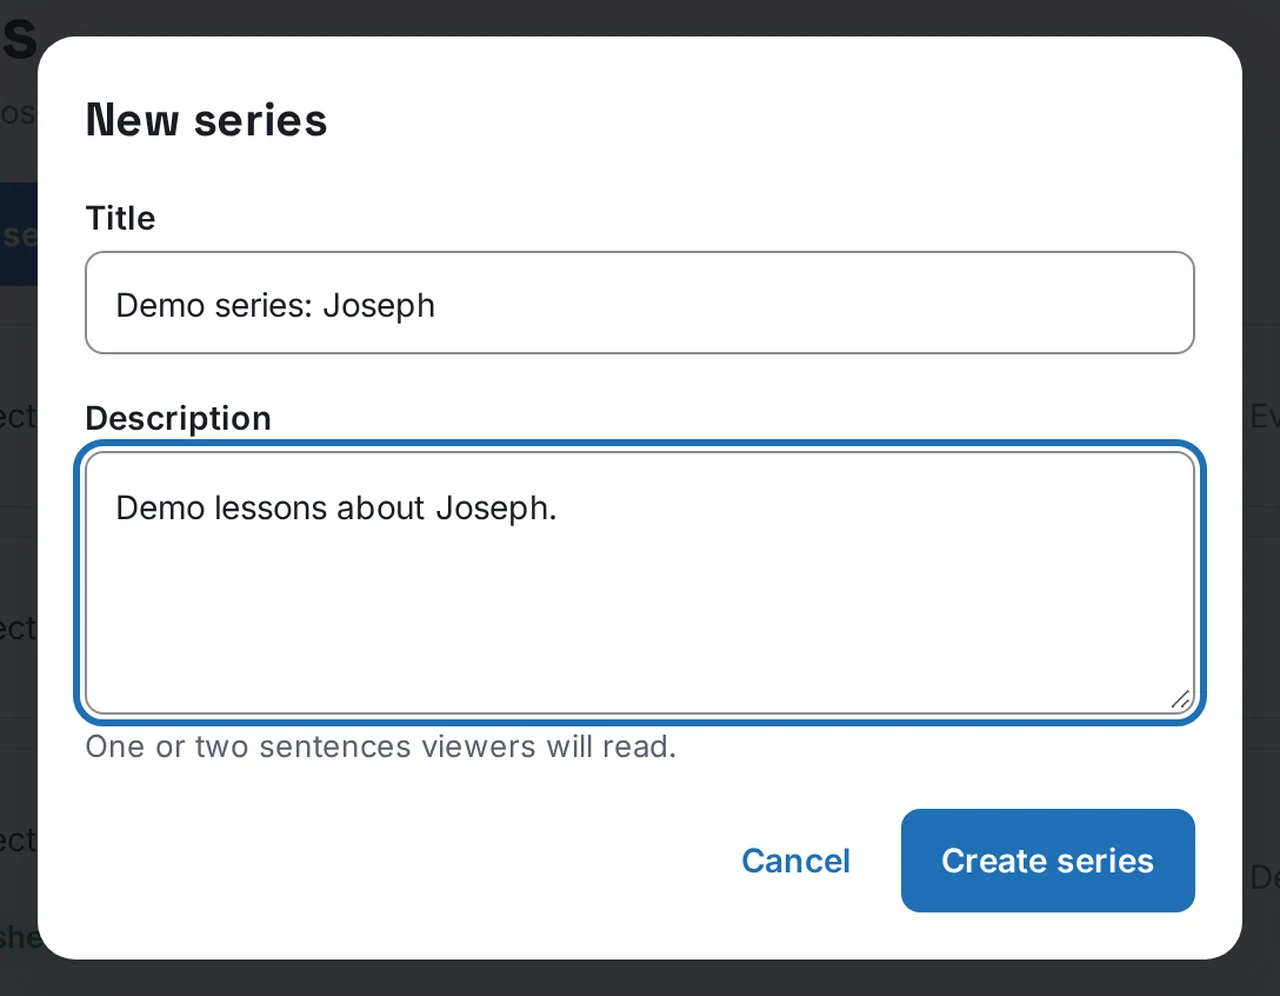
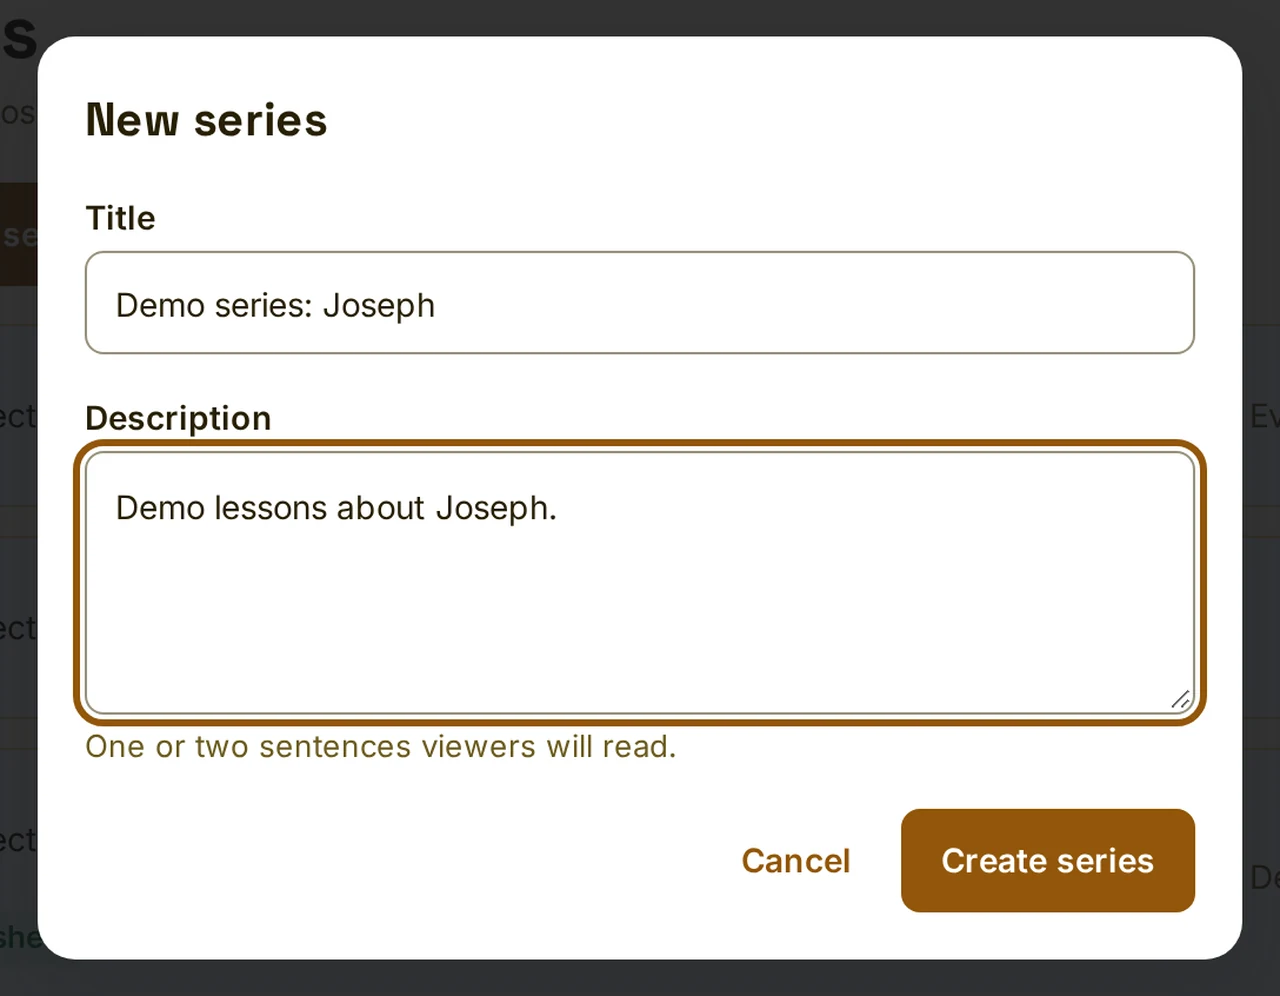
wip

diff --git a/content/help/en/weekly/W27-see-how-a-series-looks-to-viewers.md b/content/help/en/weekly/W27-see-how-a-series-looks-to-viewers.md
@@ -1,0 +1,49 @@
+---
+id: W27
+title: See how a series looks to viewers
+path: weekly
+summary: Open the viewer side of a series and check the page, the Play button and the group list.
+role: editor
+needs: [W01]
+related: [W28]
+readMinutes: 4
+watchSeconds: 120
+video:
+  id: VW27
+  phone: true
+screens: ["/admin/series/[id]"]
+aliases: [viewer page, resume, next episode, preview series]
+flow: W27
+dependsOn: ["apps/web/src/app/(viewer)/series", apps/web/src/components/title]
+updated: 2026-11-25
+locale: en
+status: draft
+---
+## What you will do
+Look at a series the way a viewer sees it. You end knowing the Play button, the group list and where the series appears.
+
+## Before you start
+You need the Editor role or above. The series must be published to show on the site. Draft series are visible to staff only.
+
+Viewers see a series page with a group list in your own words, such as Part, and the lessons below. The main button says **Play** the first time and **Resume** when a viewer has started. A small card on Home says what comes next, for example Next: Lesson 4. A series also appears in Home rows and in search results. On a phone the group list becomes a menu above the lessons.
+
+## Steps
+<!-- kb:steps W27 -->
+1. Choose **Series** in the side menu.
+2. Click **Maths Made Simple** in the list.
+3. Click **Preview site** in the top bar.
+   ![The viewer series page with its group list and lessons, marked 1](../../media/W27/W27-03-series-page-desktop.webp)
+4. Check that **Play** starts the first lesson.
+<!-- /kb:steps -->
+
+## What you should see
+The series page shows its title, the Play button and the lessons in order.
+
+The recording shows the site's sample series, because the demo series are not on the viewer demo site.
+
+> [!NOTE]
+> **Preview site** in the top bar opens the site in a new tab. The recording stays in one tab.
+
+## If something goes wrong
+- **The series is not on the site.** It is probably a draft. Use the **Published** switch on the series page.
+- **The words are Season and Episode.** The site words are not set. [Choose the series names for your whole site](help:W21)

diff --git a/content/help/en/weekly/W23-add-many-videos-to-a-series.md b/content/help/en/weekly/W23-add-many-videos-to-a-series.md
@@ -1,0 +1,45 @@
+---
+id: W23
+title: Add many videos to a series
+path: weekly
+summary: Bundle several videos into a series from the Videos list, check the numbers, and undo if needed.
+role: editor
+needs: [W20]
+related: [W02, W25, W01]
+readMinutes: 4
+watchSeconds: 90
+video:
+  id: VW23
+screens: ["/admin/videos"]
+actions: [series.manage]
+aliases: [bundle, put in a series, bulk add, add to series]
+flow: W23
+dependsOn: [apps/web/src/components/admin/AddToSeriesDialog.tsx, apps/web/src/lib/series-bundle.ts]
+updated: 2026-11-25
+locale: en
+status: draft
+---
+## What you will do
+Put several videos into a series in one go. You end with each video numbered, for example Part 3, Lessons 1 to 3 of a Genesis series.
+
+## Before you start
+You need the Editor role or above. The videos must already be uploaded. You can add videos from the current page of the list only.
+
+You can order the new numbers three ways: the order you picked, by title, or by upload date with the oldest first.
+
+## Steps
+<!-- kb:steps W23 -->
+<!-- /kb:steps -->
+
+## What you should see
+The preview table lists every video with its place, for example Part 3, Lesson 1. After you add them, a message offers **Undo** for a few seconds.
+
+> [!TIP]
+> Read the preview before you click **Add 3 videos**. A red message above it says what to fix, such as a number already taken.
+
+> [!NOTE]
+> The demo recording clicks **Undo** at the end so the demo stays the same. Do the same only if the numbers look wrong.
+
+## If something goes wrong
+- **Add to series is grey.** Select rows on this page first. It cannot work on every match of a search. Find videos and change many at once
+- **A red message says a number is taken.** Choose another **Part** or start at a later lesson. [Fix gaps and duplicate numbers](help:W25)

diff --git a/content/help/en/weekly/W30-change-many-videos-at-once.md b/content/help/en/weekly/W30-change-many-videos-at-once.md
@@ -1,0 +1,42 @@
+---
+id: W30
+title: Change many videos at once
+path: weekly
+summary: Select videos and publish, rate or add them to a category in one go.
+role: editor
+needs: [S04]
+related: [W23, W33]
+readMinutes: 4
+watchSeconds: 120
+video:
+  id: VW30
+screens: ["/admin/videos"]
+actions: [video.edit]
+aliases: [bulk, many, select all, bulk publish, suitability, bulk category]
+flow: W30
+dependsOn: [apps/web/src/components/admin/VideosList.tsx, apps/web/src/components/admin/bulk]
+updated: 2026-11-25
+locale: en
+status: draft
+---
+## What you will do
+Change several videos together with the bulk bar. You end with the chosen videos in a new category, the same way you can publish them or set their maturity rating.
+
+## Before you start
+You need the Editor role or above. The bar works on the rows ticked on the current page. Publish and Move to Trash need the matching role.
+
+The bar offers **Publish**, **Unpublish**, **Add to category**, **Remove from category**, **Add to series**, **Set maturity rating** and **Move to Trash**. Publish asks you to confirm first. The others open a small box with a list and an **Apply** button.
+
+## Steps
+<!-- kb:steps W30 -->
+<!-- /kb:steps -->
+
+## What you should see
+A message says how many videos changed, with **Undo** for a few seconds. The list shows the new category.
+
+> [!TIP]
+> Use **Set maturity rating** to set the suitability of many videos together.
+
+## If something goes wrong
+- **A bar button is grey.** Your role cannot do it, or you used Select all for every match. Select rows on this page instead.
+- **Some videos failed.** The result lists each one with a reason. Click Retry on the result.

diff --git a/content/help/en/weekly/W33-upload-many-videos-and-set-the-details-together.md b/content/help/en/weekly/W33-upload-many-videos-and-set-the-details-together.md
@@ -1,0 +1,42 @@
+---
+id: W33
+title: Upload many videos and set the details together
+path: weekly
+summary: Add several files at once and give them the same category and rating.
+role: editor
+needs: [S04]
+related: [W30]
+readMinutes: 3
+watchSeconds: 45
+video:
+  id: VW33
+screens: ["/admin/videos/upload"]
+actions: [video.upload]
+aliases: [bulk upload, upload details, many files]
+flow: W33
+dependsOn: [apps/web/src/components/admin/UploadScreen.tsx, apps/web/src/components/admin/UploadDetailsForm.tsx]
+updated: 2026-11-25
+locale: en
+status: draft
+---
+## What you will do
+Upload many files and set shared details once. You end with all the files uploading with the same category, rating and suitability.
+
+## Before you start
+You need the Editor role or above. Read Upload many videos and share details.
+
+Choosing files needs a file from your computer, so the recording shows only the Upload screen. After you add the files, use **Edit details for all** to set the category and rating once, and override a single file if it differs.
+
+## Steps
+<!-- kb:steps W33 -->
+<!-- /kb:steps -->
+
+## What you should see
+Each file has its own row and progress bar. The shared details show on every row.
+
+> [!NOTE]
+> The video cannot show choosing files in the demo. The steps after the screen opens are described here, not recorded.
+
+## If something goes wrong
+- **A file will not start.** Check the type is MP4, MOV or MKV. An upload keeps failing
+- **You set the wrong rating.** Use [Change many videos at once](help:W30) to fix it.

diff --git a/content/help/en/weekly/W29-organise-your-library-with-categories-and-tags.md b/content/help/en/weekly/W29-organise-your-library-with-categories-and-tags.md
@@ -1,0 +1,42 @@
+---
+id: W29
+title: Organise your library with categories and tags
+path: weekly
+summary: Plan categories and tags so every video is easy to find.
+role: editor
+needs: [W03]
+related: [W03, W30]
+readMinutes: 3
+watchSeconds: 90
+video:
+  id: VW29
+screens: ["/admin/videos/[id]"]
+actions: [video.edit]
+aliases: [subjects, labels, keywords, find videos]
+flow: W29
+dependsOn: [apps/web/src/components/admin/VideoEditor.tsx]
+updated: 2026-11-25
+locale: en
+status: draft
+---
+## What you will do
+Use categories for the big shelves and tags for subjects. You end with a video tagged so people can find it by search.
+
+## Before you start
+You need the Editor role or above. Read [Manage categories](help:W03).
+
+A good plan: few categories (about six), many tags. Put a Genesis lesson in the category Bible Teaching and add tags like genesis, noah, creation. A series bundles videos in order; a category groups videos by shelf; a tag helps search.
+
+## Steps
+<!-- kb:steps W29 -->
+<!-- /kb:steps -->
+
+## What you should see
+A message says the video was saved. The tags show in the **Tags** box, separated by commas.
+
+> [!TIP]
+> Use lower case tags and the same spelling every time, so search finds all of them.
+
+## If something goes wrong
+- **The tags do not save.** Check for a very long tag. Keep each tag short.
+- **A video shows in the wrong shelf.** Change its category in the same editor. Add the title, description and categories

diff --git a/content/help/en/weekly/W31-approve-many-captions-at-once.md b/content/help/en/weekly/W31-approve-many-captions-at-once.md
@@ -1,0 +1,42 @@
+---
+id: W31
+title: Approve many captions at once
+path: weekly
+summary: Approve the captions of several videos together from the Captions list.
+role: admin
+needs: [D07]
+related: [D07]
+readMinutes: 3
+watchSeconds: 60
+video:
+  id: VW31
+screens: ["/admin/captions"]
+actions: [caption.approve_bulk]
+aliases: [bulk approve, approve all captions, subtitles]
+flow: W31
+dependsOn: [apps/web/src/components/admin/CaptionTable.tsx]
+updated: 2026-11-25
+locale: en
+status: draft
+---
+## What you will do
+Approve captions for many videos in one go. You end with all the ticked videos showing approved captions.
+
+## Before you start
+You need the Admin role or above. Editors approve one video at a time. Read [Review and approve captions](help:D07) first and check at least a few videos by eye.
+
+Only rows that are ready to approve count. The button shows how many, for example **Approve 2**.
+
+## Steps
+<!-- kb:steps W31 -->
+<!-- /kb:steps -->
+
+## What you should see
+A result lists each video approved and any that were skipped with a reason.
+
+> [!CAREFUL]
+> Approving many captions without reading them can put wrong words on screen. Spot check first.
+
+## If something goes wrong
+- **The Approve button says Approve 0.** None of the ticked rows are ready to approve.
+- **You are an Editor.** Ask an Admin, or approve one video at a time. [Review and approve captions](help:D07)

diff --git a/content/help/en/weekly/W32-retry-many-failed-encodes-at-once.md b/content/help/en/weekly/W32-retry-many-failed-encodes-at-once.md
@@ -1,0 +1,41 @@
+---
+id: W32
+title: Retry many failed encodes at once
+path: weekly
+summary: Select failed videos in the Encoding queue and retry them together.
+role: editor
+needs: [S04]
+related: [T01]
+readMinutes: 2
+watchSeconds: 75
+video:
+  id: VW32
+screens: ["/admin/encoding"]
+aliases: [bulk retry, retry all, processing failed]
+flow: W32
+dependsOn: [apps/web/src/components/admin/EncodingQueue.tsx]
+updated: 2026-11-25
+locale: en
+status: draft
+---
+## What you will do
+Retry several [encodes](glossary:encoding) that failed. You end with the failed videos back in the queue.
+
+## Before you start
+You need the Editor role or above. Read Watch the Encoding queue and retry a failed video first.
+
+The bar button shows how many, for example **Retry 1 failed**. A box asks you to confirm.
+
+## Steps
+<!-- kb:steps W32 -->
+<!-- /kb:steps -->
+
+## What you should see
+The failed videos move back to waiting or encoding, and a message says how many were retried.
+
+> [!NOTE]
+> If a video fails again, read its reason before retrying a third time. [A video is stuck on Encoding](help:T01)
+
+## If something goes wrong
+- **There is no Retry button.** No failed row is ticked. Tick a failed row first.
+- **It fails again.** The file may be damaged. Upload it again.
